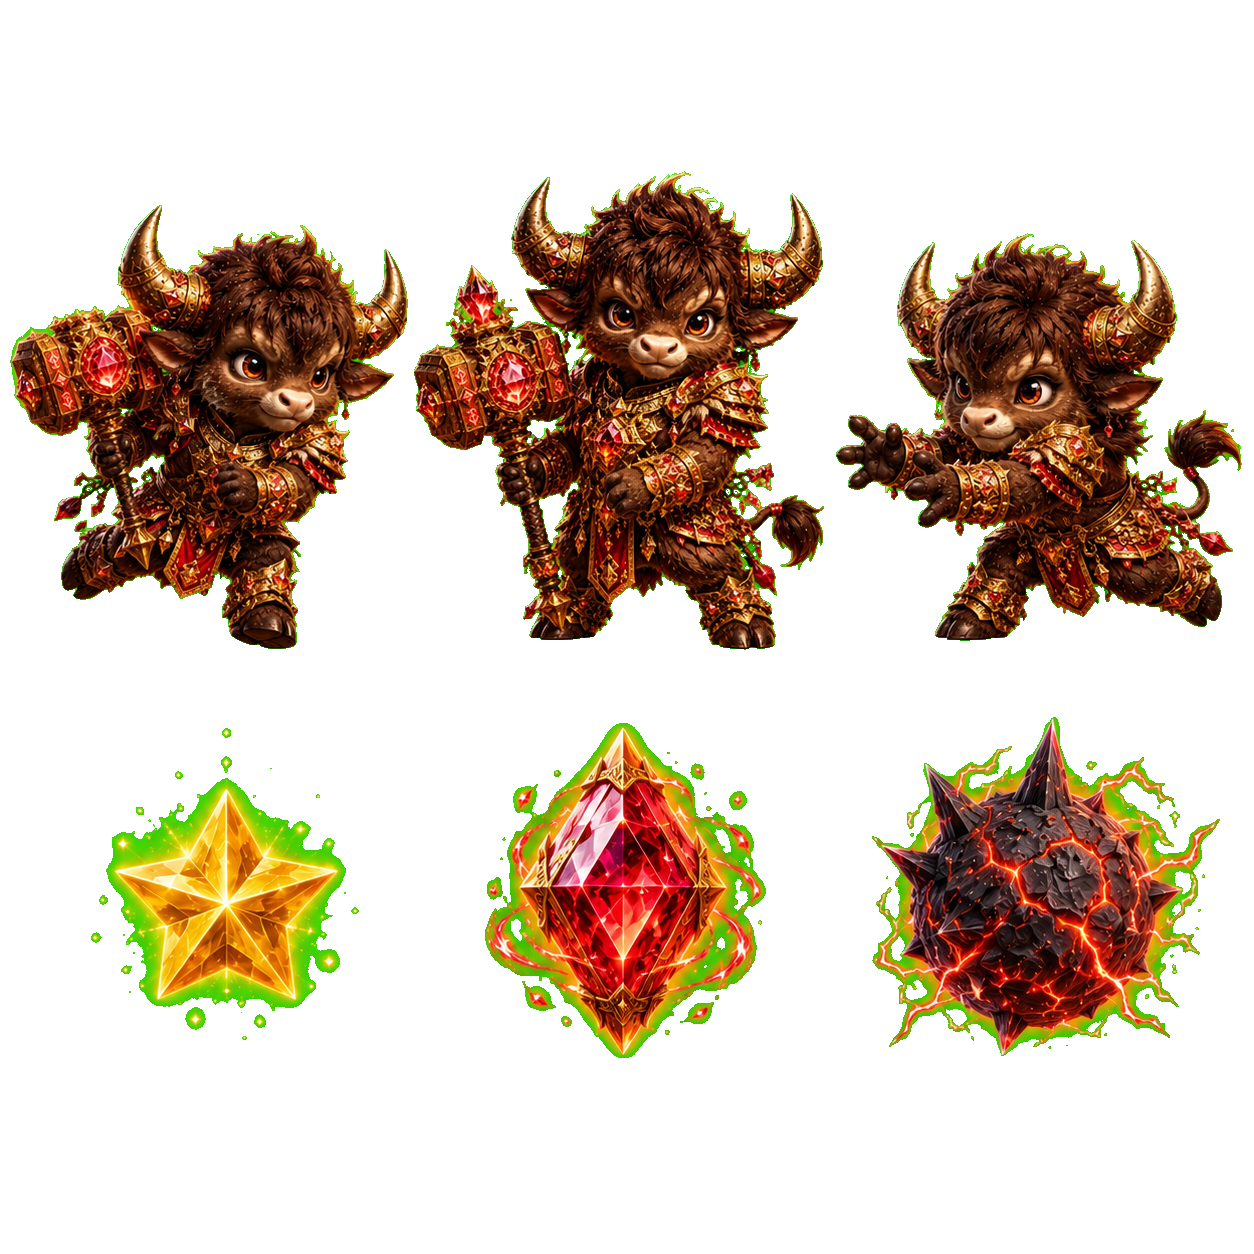
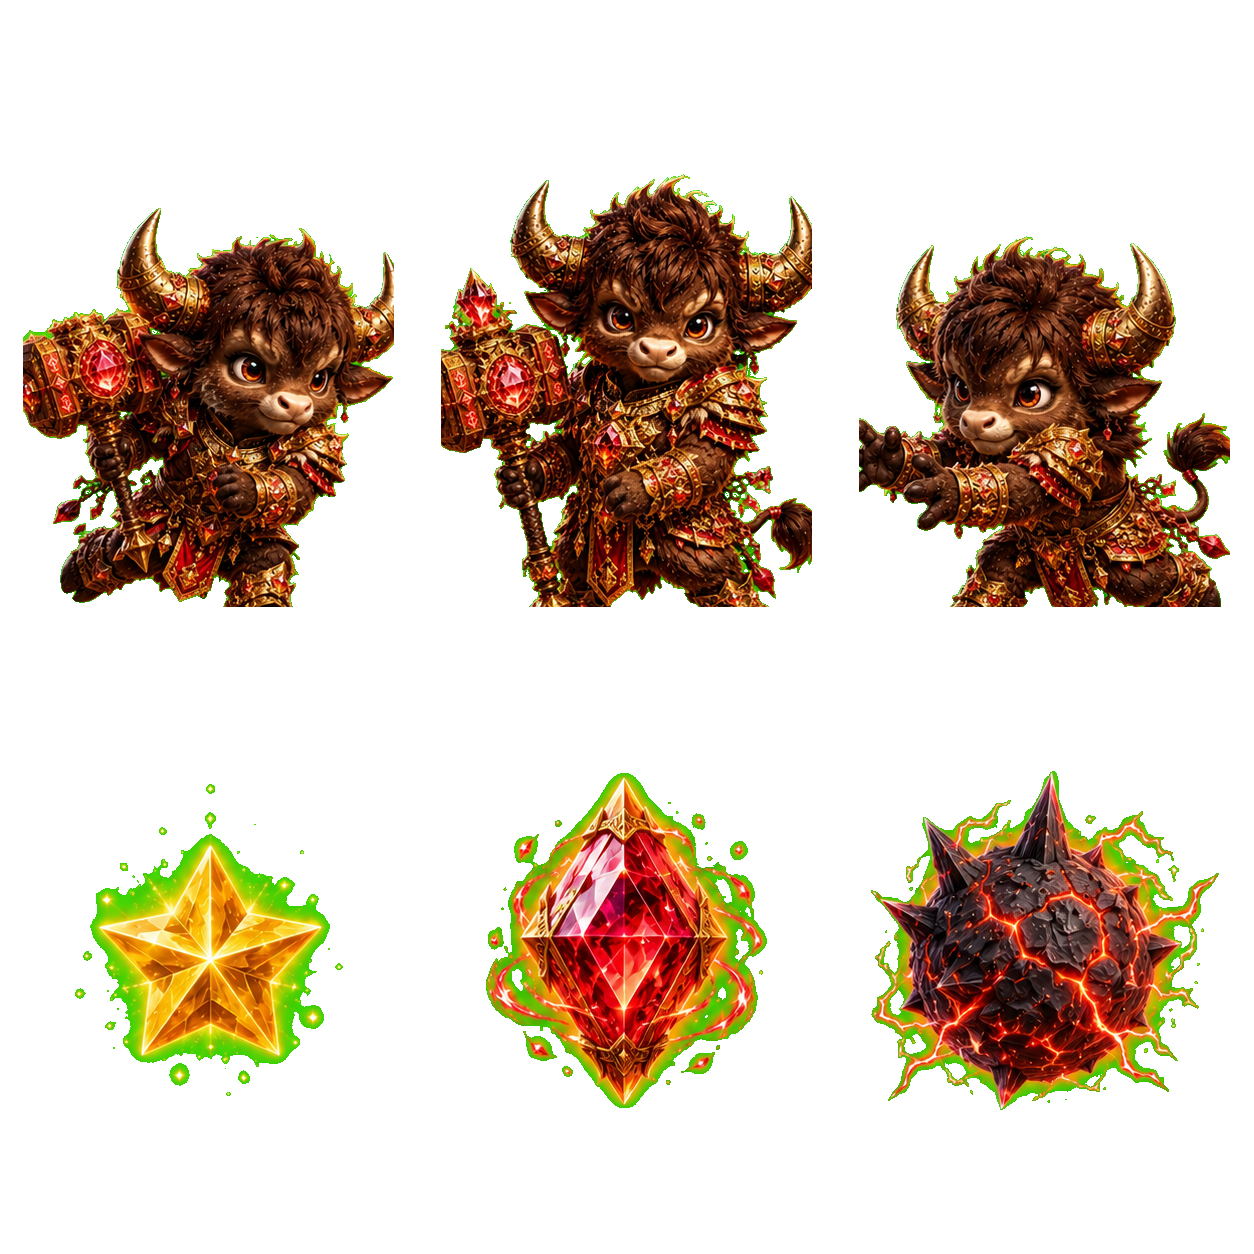
feat: fix catcher asset cropping, brighten backgrounds, add visual glows, and lock launcher to valid cards

diff --git a/app/components/CatcherGame.tsx b/app/components/CatcherGame.tsx
@@ -123,8 +123,8 @@ export default function CatcherGame({ childId, rewardId, characterId, characterN
   const getThemeColors = () => {
     switch (characterId) {
       case "streak-reward-2": return { bg: "from-emerald-400 via-teal-500 to-indigo-600", accent: "text-emerald-300" };
-      case "streak-reward-14": return { bg: "from-slate-700 via-indigo-950 to-slate-900", accent: "text-amber-300" };
-      case "streak-reward-17": return { bg: "from-purple-900 via-fuchsia-950 to-slate-950", accent: "text-fuchsia-300" };
+      case "streak-reward-14": return { bg: "from-sky-300 via-blue-400 to-indigo-500", accent: "text-yellow-200" };
+      case "streak-reward-17": return { bg: "from-fuchsia-300 via-purple-400 to-indigo-500", accent: "text-pink-200" };
       default: return { bg: "from-teal-400 to-emerald-600", accent: "text-emerald-300" };
     }
   };
@@ -165,11 +165,11 @@ export default function CatcherGame({ childId, rewardId, characterId, characterN
         };
       case "streak-reward-17": // Rhino (Purple crystal caves style)
         return {
-          skyGradient: ["#1e1b4b", "#4c1d95"], // dark purple cave glow
-          subGroundColor: "#374151", // dark basalt stone
-          groundTrimColor: "#c084fc", // purple crystal top
+          skyGradient: ["#c084fc", "#fae8ff"], // light glowing purple/lavender cave light
+          subGroundColor: "#9ca3af", // medium light grey basalt
+          groundTrimColor: "#e9d5ff", // purple crystal top
           particleType: "spark",
-          particleColors: ["#e9d5ff", "#c084fc", "#a855f7"],
+          particleColors: ["#c084fc", "#a855f7", "#ffffff"],
           drawExtraDecorations: (ctx: CanvasRenderingContext2D, canvas: HTMLCanvasElement, groundY: number) => {
             // Glowing crystals at the bottom
             ctx.fillStyle = "#c084fc";
@@ -186,8 +186,8 @@ export default function CatcherGame({ childId, rewardId, characterId, characterN
         };
       case "streak-reward-14": // Buffalo (Stormy lightning plains style)
         return {
-          skyGradient: ["#0f172a", "#1e293b"], // dark slate storm sky
-          subGroundColor: "#18181b", // charcoal dark basalt
+          skyGradient: ["#94a3b8", "#cbd5e1"], // light stormy slate-grey
+          subGroundColor: "#475569", // medium slate grey
           groundTrimColor: "#eab308", // bright yellow lightning trim
           particleType: "spark",
           particleColors: ["#fef08a", "#fde047", "#ffffff"],
@@ -558,11 +558,22 @@ export default function CatcherGame({ childId, rewardId, characterId, characterN
             if (item.type === "star") col = 0;
             if (item.type === "danger") col = 2;
 
+            ctx.save();
+            // Apply glow
+            ctx.shadowColor = item.type === "star" ? "rgba(253, 224, 71, 0.95)" : 
+                              item.type === "danger" ? "rgba(239, 68, 68, 0.95)" : 
+                              (characterId === "streak-reward-2" ? "rgba(74, 222, 128, 0.95)" : 
+                               characterId === "streak-reward-14" ? "rgba(56, 189, 248, 0.95)" : "rgba(232, 121, 249, 0.95)");
+            ctx.shadowBlur = 15;
+            ctx.shadowOffsetX = 0;
+            ctx.shadowOffsetY = 0;
+
             ctx.drawImage(
               spriteImg,
               col * 418, 627, 418, 627, // Source rect
               item.x, item.y, item.width, item.height // Destination rect
             );
+            ctx.restore();
           } else {
             // Fallback drawing if image not ready
             ctx.fillStyle = item.type === "star" ? "#eab308" : item.type === "danger" ? "#ef4444" : "#3b82f6";
@@ -648,6 +659,13 @@ export default function CatcherGame({ childId, rewardId, characterId, characterN
 
         if (spriteImg.complete && spriteImg.naturalWidth > 0) {
           ctx.save();
+          // Apply character glow
+          ctx.shadowColor = characterId === "streak-reward-2" ? "rgba(110, 231, 183, 0.95)" : 
+                            characterId === "streak-reward-14" ? "rgba(253, 224, 71, 0.95)" : "rgba(232, 121, 249, 0.95)";
+          ctx.shadowBlur = 18;
+          ctx.shadowOffsetX = 0;
+          ctx.shadowOffsetY = 0;
+
           if (g.player.facingLeft) {
             // Mirror image horizontally
             ctx.translate(px + g.player.width, py);
@@ -832,7 +850,11 @@ export default function CatcherGame({ childId, rewardId, characterId, characterN
         {/* Start Game View Overlay */}
         {gameState === "start" && (
           <div className={`absolute inset-0 z-30 bg-gradient-to-br ${theme.bg} flex flex-col items-center justify-center text-white text-center p-6`}>
-            <div className="text-6xl mb-4 animate-bounce">🧺🦫</div>
+            <div className="text-6xl mb-4 animate-bounce">
+              {characterId === "streak-reward-2" ? "🧺🦫" : 
+               characterId === "streak-reward-14" ? "🧺🐃" : 
+               characterId === "streak-reward-17" ? "🧺🦏" : "🧺🦫"}
+            </div>
             <h1 className="text-2xl md:text-3xl font-black tracking-wide drop-shadow-md">
               Ловец: {characterName}
             </h1>

diff --git a/app/page.tsx b/app/page.tsx
@@ -1508,7 +1508,7 @@ export default function Home() {
                       Получено раз: {streakProgress.earned?.[zoomedReward.id] || 0}
                     </p>
                     {/* Render Runner or Catcher game launch button for supported cards (or all cards if in test mode) */}
-                    {(rewardsTestMode || [
+                    {([
                       'streak-reward-1', 'streak-reward-2', 'streak-reward-5', 
                       'streak-reward-7', 'streak-reward-14', 'streak-reward-15', 'streak-reward-17'
                     ].includes(zoomedReward.id)) && (

diff --git a/scripts/reprocess-catcher-sheets.py b/scripts/reprocess-catcher-sheets.py
@@ -1,0 +1,69 @@
+import os
+from PIL import Image
+
+def clean_and_center_spritesheet(input_path, output_path):
+    print(f"Reprocessing {os.path.basename(input_path)}...")
+    img = Image.open(input_path).convert("RGBA")
+    w, h = img.size
+    cell_w = 418
+    cell_h = 627
+    
+    new_img = Image.new("RGBA", (w, h), (0, 0, 0, 0))
+    
+    for row in range(2):
+        for col in range(3):
+            # Crop the original cell
+            cell = img.crop((col * cell_w, row * cell_h, (col + 1) * cell_w, (row + 1) * cell_h))
+            
+            # Create a copy to find the true bounding box by erasing borders
+            core = cell.copy()
+            core_pixels = core.load()
+            
+            # Erase borders to sever bleed
+            border_x = 24
+            border_y = 24
+            for x in range(cell_w):
+                for y in range(cell_h):
+                    if x < border_x or x > cell_w - border_x or y < border_y or y > cell_h - border_y:
+                        core_pixels[x, y] = (0, 0, 0, 0)
+                        
+            # Get bounding box of the isolated object
+            bbox = core.getbbox()
+            if bbox:
+                # Crop from the core image where borders are erased to guarantee zero bleed
+                obj = core.crop(bbox)
+                
+                # Create a new blank cell
+                new_cell = Image.new("RGBA", (cell_w, cell_h), (0, 0, 0, 0))
+                
+                # Center horizontally
+                obj_w, obj_h = obj.size
+                dest_x = (cell_w - obj_w) // 2
+                
+                if row == 0:
+                    # Character: align bottom to preserve ground height
+                    dest_y = cell_h - obj_h - 20
+                else:
+                    # Falling Item: center vertically
+                    dest_y = (cell_h - obj_h) // 2
+                    
+                new_cell.paste(obj, (dest_x, dest_y))
+                new_img.paste(new_cell, (col * cell_w, row * cell_h))
+            else:
+                print(f"  Warning: No bounding box found for cell at row {row}, col {col}")
+                
+    new_img.save(output_path, "PNG")
+    print(f"Saved reprocessed spritesheet to {output_path}")
+
+def main():
+    dest_dir = "public/images/bonus-games/catcher"
+    files = ["02_capybara_kapi.png", "14_buffalo_grom.png", "17_rhino_titan.png"]
+    for f in files:
+        path = os.path.join(dest_dir, f)
+        if os.path.exists(path):
+            clean_and_center_spritesheet(path, path)
+        else:
+            print(f"Error: {path} does not exist.")
+
+if __name__ == "__main__":
+    main()
